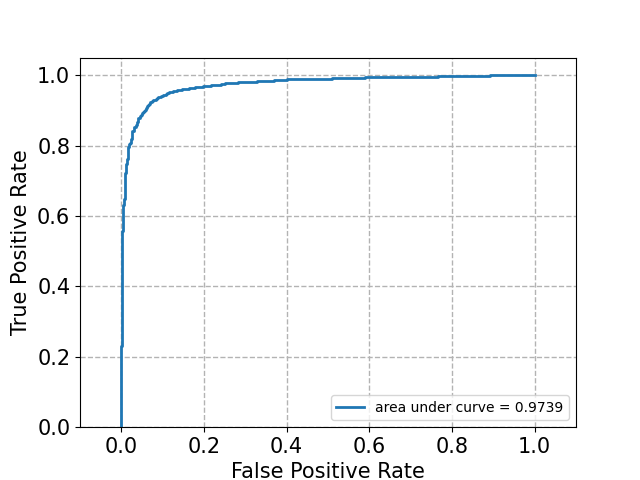
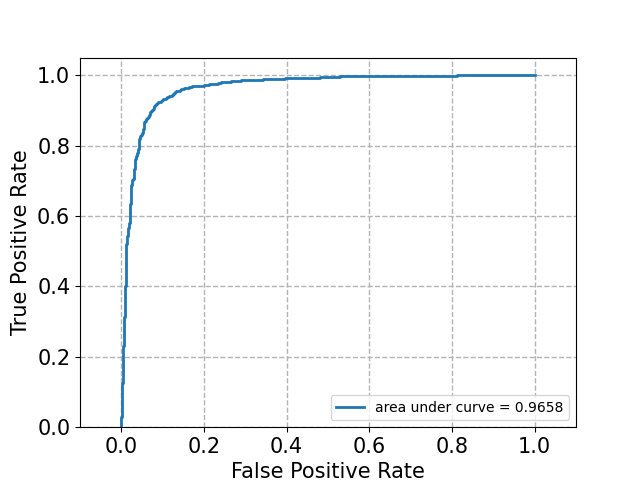
full run result and minor changes

Changed region(s): [[0.1875, 0.1875, 0.2812, 0.8125], [0.2812, 0.1562, 0.6875, 0.1875], [0.8438, 0.8438, 0.875, 0.875]]

diff --git a/project1/q456712.py b/project1/q456712.py
@@ -8,7 +8,7 @@ from tempfile import mkdtemp
 from sklearn.model_selection import cross_val_score
 from sklearn.metrics import plot_confusion_matrix
 from sklearn.base import BaseEstimator, TransformerMixin
-from sklearn.naive_bayes import MultinomialNB
+from sklearn.naive_bayes import GaussianNB
 import nltk
 import random
 from sklearn.datasets import fetch_20newsgroups
@@ -26,6 +26,9 @@ from sklearn.metrics import roc_curve
 from sklearn.linear_model import LogisticRegression
 from statistics import mean
 
+np.random.seed(42)
+random.seed(42)
+
 TARGET_MAP = {
     0: 0,
     1: 0,
@@ -41,7 +44,7 @@ categories = ['comp.graphics', 'comp.os.ms-windows.misc',
               'comp.sys.ibm.pc.hardware', 'comp.sys.mac.hardware',
               'rec.autos', 'rec.motorcycles',
               'rec.sport.baseball', 'rec.sport.hockey']
-# TODO: decide remove header & footer or not
+
 # load data and convert to 2 category
 twenty_train = fetch_20newsgroups(
     subset='train', categories=categories, shuffle=True, random_state=None)
@@ -59,6 +62,9 @@ nltk.download('wordnet')
 nltk.download('punkt')
 nltk.download('averaged_perceptron_tagger')
 wnl = nltk.wordnet.WordNetLemmatizer()
+
+# configure stop words
+stop_words = CountVectorizer(stop_words='english').get_stop_words()
 
 
 def penn2morphy(penntag):
@@ -78,7 +84,7 @@ def lemmatize_sent(list_word):
 
 
 def stem_rmv_punc(doc):
-    return (word for word in lemmatize_sent(CountVectorizer().build_analyzer()(doc)) if word != "english" and not word.isdigit())
+    return (word for word in lemmatize_sent(CountVectorizer().build_analyzer()(doc)) if word not in stop_words and not word.isdigit())
 
 
 def plot_roc(figure_name, fpr, tpr):
@@ -260,7 +266,7 @@ for c in tradeoff:
 # pipeline for the best L1
 log1_C = max(tradeoff, key=tradeoff.get)
 log_bestl1_pipline = Pipeline([
-    ('clf', LogisticRegression(C=log_C, penalty="l1", solver="liblinear")),
+    ('clf', LogisticRegression(C=log1_C, penalty="l1", solver="liblinear")),
 ])
 
 # roc curve
@@ -309,7 +315,7 @@ plt.savefig('q5_confusion_matrix_bestL2.png')
 
 # Naive Bayes
 bayes_pipline = Pipeline([
-    ('clf', MultinomialNB()),
+    ('clf', GaussianNB()),
 ])
 
 # roc curve
@@ -327,17 +333,12 @@ plt.savefig('q6_confusion_matrix.png')
 
 # Q7
 
-# debug ==============================================================================!!!!!!!!!!!!!!!!!
-log2_C = log1_C = svm_C = 10
-# debug ==============================================================================!!!!!!!!!!!!!!!!!
-
 # TODO
 # remove “headers” and “footers” vs not
 
 
 def stem_rmv_punc_nonlemmatize(doc):
-    # need further revision !!!!!!!!!!!!!!!!!!!!!!!!!!!!!!!!!!!!!!!!!!!!!!!!!!!!!!!!!!!!!!!!!!!!!!!!!!!!!!!!!!!!!!!!!!!
-    return (word for word in CountVectorizer().build_analyzer()(doc) if word != "english" and not word.isdigit())
+    return (word for word in CountVectorizer().build_analyzer()(doc) if word not in stop_words and not word.isdigit())
 
 
 cachedir = mkdtemp()
@@ -347,7 +348,7 @@ grid_pipline = Pipeline([
     ('vect', CountVectorizer()),
     ('tfidf', TfidfTransformer()),
     ('reduce_dim', TruncatedSVD(n_components=50)),
-    ('clf', MultinomialNB()),
+    ('clf', GaussianNB()),
 ],
     memory=memory
 )
@@ -385,7 +386,7 @@ param_grid = [
         'vect__analyzer': [stem_rmv_punc, stem_rmv_punc_nonlemmatize],
         'reduce_dim': [TruncatedSVD(), NMF()],
         'reduce_dim__n_components': [50],
-        'clf': [MultinomialNB()],
+        'clf': [GaussianNB()],
     },
 ]
 
@@ -398,11 +399,11 @@ df = pd.DataFrame(grid.cv_results_)
 df.to_csv('q7csv')
 
 # TODO
-# Q7-11
+# Q8-11
 
 # Q12
 categories = ['comp.sys.ibm.pc.hardware', 'comp.sys.mac.hardware',
-              'misc.forsale', 'soc.religion.christian', ]
+              'misc.forsale', 'soc.religion.christian']
 # TODO: decide remove header & footer or not
 twenty_train = fetch_20newsgroups(
     subset='train', categories=categories, shuffle=True, random_state=None)
@@ -414,7 +415,7 @@ reduced_train = LSI_preprocessing_pipline.fit_transform(twenty_train.data)
 reduced_test = LSI_preprocessing_pipline.transform(twenty_test.data)
 
 # Naive Bayes
-clf = MultinomialNB().fit(reduced_train, twenty_train.target)
+clf = GaussianNB().fit(reduced_train, twenty_train.target)
 
 # confusion matrix
 plot_confusion_matrix(clf, reduced_test, twenty_test.target,

diff --git a/project1/q123.py b/project1/q123.py
@@ -84,7 +84,6 @@ def lemmatize_sent(list_word):
 
 
 # overwrite analyzer with callable function:
-# !!!!!! do we need to do this? seem to me you can just use a set of stopword !!!!!!
 vectorizer1 = CountVectorizer(stop_words='english')
 stop_words = vectorizer1.get_stop_words()
 # print(stop_words)
